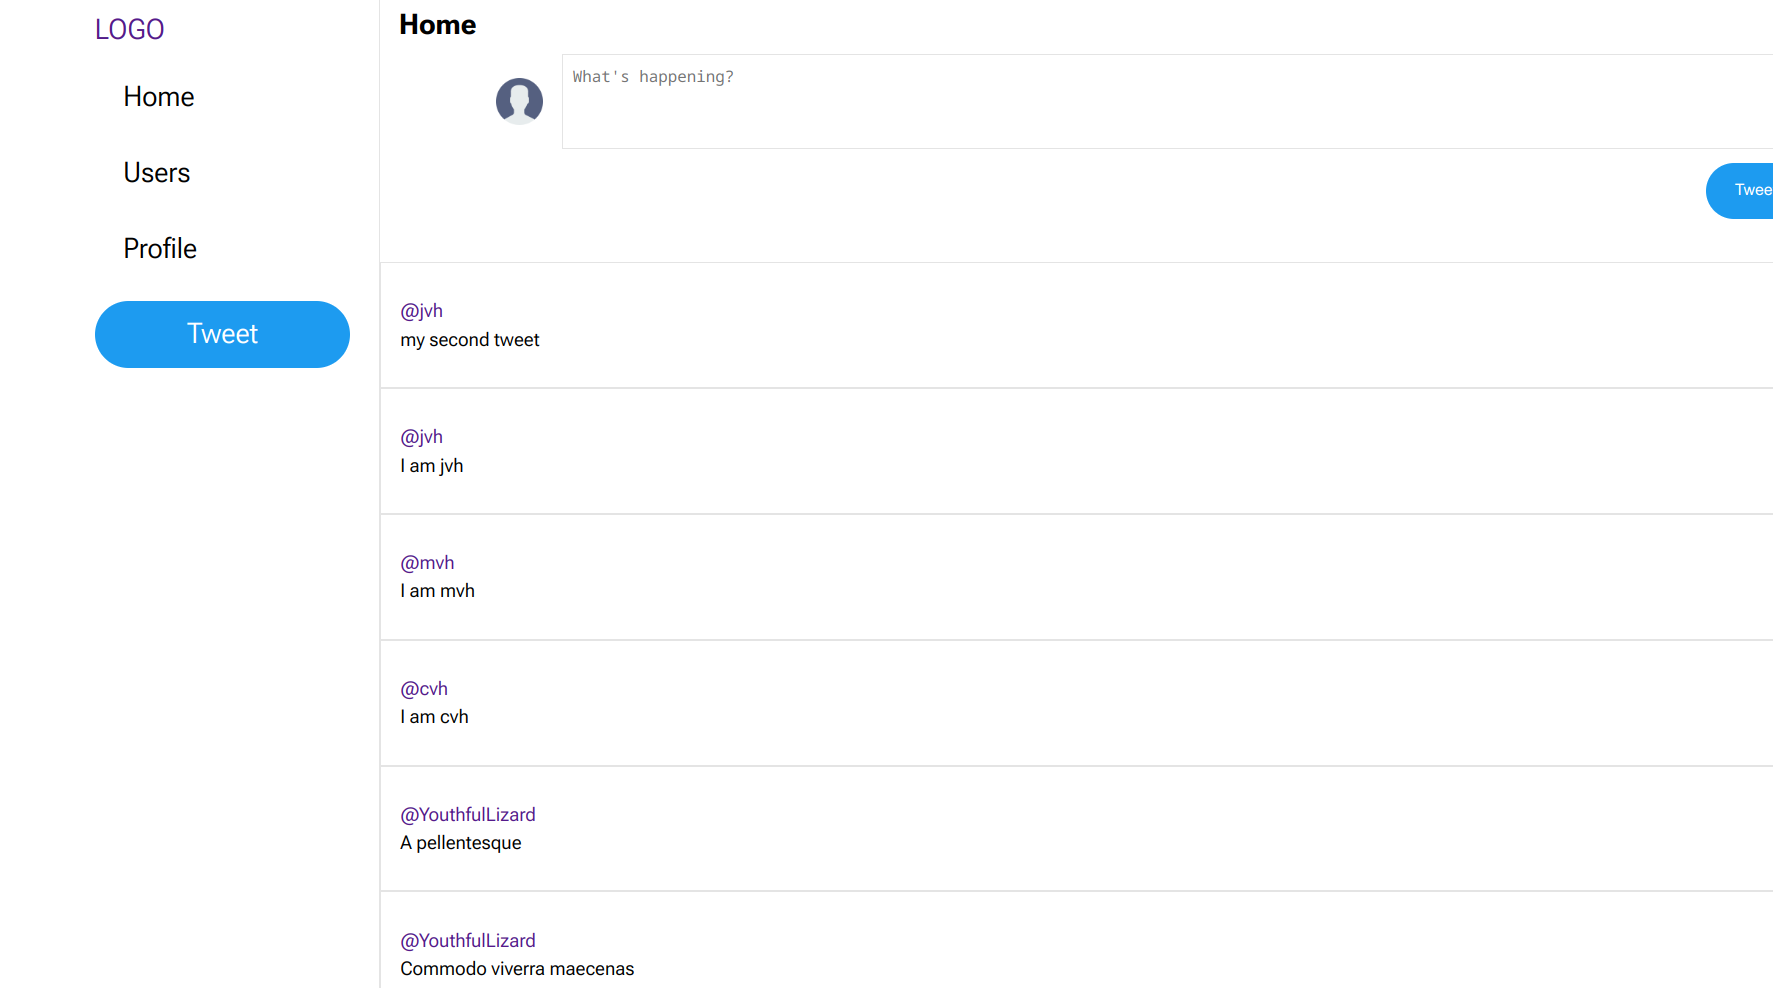
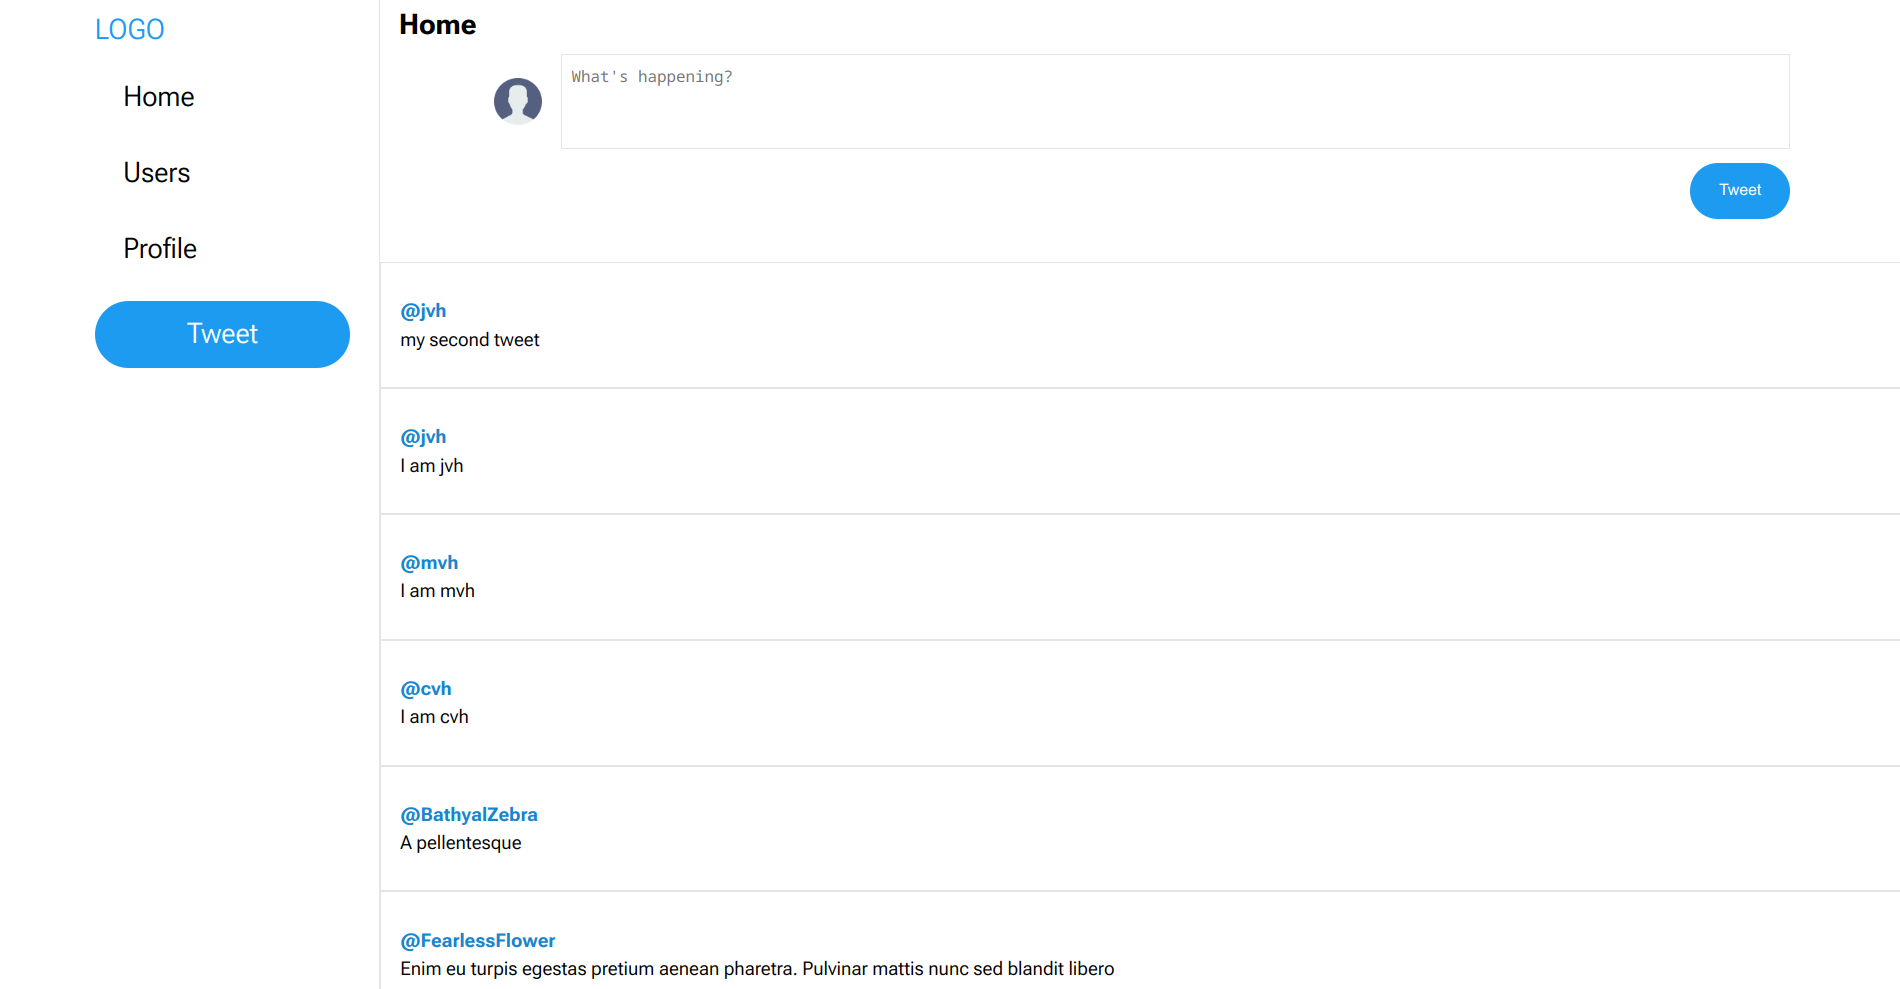
Added contact section and footer

diff --git a/public/styles/styles.css b/public/styles/styles.css
@@ -27,6 +27,12 @@
   transform: scale(1.1);
 }
 
+.hide {
+  position: absolute;
+  top: -9999px;
+  left: -9999px;
+}
+
 .nav-scroll-bg {
   background-color: rgb(34, 51, 59, 0.9);
   backdrop-filter: blur(10px);
@@ -38,14 +44,15 @@
   display: inline-block;
   padding: 0.5rem 1rem;
   border-radius: 0.75rem;
-  color: var(--primary-color);
+  color: var(--bg-color);
+  background-color: var(--primary-color);
   border: 1px solid var(--primary-color);
   transition: color 0.5s ease, background-color 0.5s ease;
 }
 
 .btn:hover {
-  color: var(--bg-color);
-  background-color: var(--primary-color);
+  color: var(--primary-color);
+  background-color: transparent;
 }
 
 .nav-scroll-show::after {
@@ -141,8 +148,7 @@
 .work-grid {
   width: 100%;
   display: grid;
-  grid-template-columns: repeat(3, 1fr);
-  grid-column: 1;
+  grid-template-columns: repeat(2, 1fr);
 }
 
 .work-tiles {
@@ -177,7 +183,7 @@
   flex-direction: column;
   justify-content: flex-end;
   background-color: rgb(34, 51, 59, 0.75);
-  backdrop-filter: blur(10px);
+  /* backdrop-filter: blur(10px); */
   transition: height 0.5s ease, padding 0.5s ease;
 }
 
@@ -197,6 +203,60 @@
 
 .project-info p::before, .project-info p::after {
   color: var(--primary-color);
+}
+
+.contact-form {
+  width: 50%;
+  padding: 0 1rem;
+  display: grid;
+  grid-template-columns: 1fr;
+  grid-column: 1;
+  grid-gap: 0.5rem;
+}
+
+.contact-form div {
+  display: grid;
+  grid-template-columns: repeat(2, 1fr);
+  grid-gap: 0.5rem;
+}
+
+.contact-form input, .contact-form textarea {
+  padding: 0.75rem 1rem;
+  outline: none;
+  border: none;
+  font-size: 1.25em;
+  background-color: transparent;
+  color: var(--muted-text-color);
+  border-bottom: 2px solid var(--muted-text-color);
+  transition: color 0.5s ease, border 0.5s ease;
+}
+
+.contact-form input:focus, .contact-form textarea:focus {
+  border-color: var(--primary-color);
+  color: var(--primary-color);
+}
+
+.contact-form input[name='subject'], .contact-form textarea {
+  width: 100%;
+}
+
+.contact-form textarea {
+  height: 12rem;
+  resize: vertical;
+}
+
+.contact-form button {
+  margin: 0.5rem 0;
+}
+
+.footer-logos {
+  height: 2rem;
+  fill: var(--text-color);
+  transition: fill 0.5s ease;
+}
+
+.footer-logos:hover {
+  fill: var(--primary-color);
 }
 /* END OF CLASSES */
 
@@ -282,4 +342,22 @@ header nav div {
 #welcome-section p {
   width: 50%;
   margin: 0.5rem auto 0 auto;
+}
+
+footer {
+  height: 10rem;
+  margin-top: 6rem;
+  display: flex;
+  flex-direction: column;
+  align-items: center;
+  justify-content: center;
+  background-color: var(--bg-shadow);
+}
+
+footer div {
+  margin-bottom: 1rem;
+}
+
+footer p {
+  font-size:1em;
 }

diff --git a/public/scripts/script.js b/public/scripts/script.js
@@ -1,5 +1,6 @@
 const headerNav = document.querySelector('header nav');
 const workTiles = document.querySelectorAll('.work-tiles');
+const headerLinks = document.querySelectorAll('header .links');
 
 let lastScrollTop = 0;
 document.addEventListener('scroll', () => {
@@ -37,5 +38,19 @@ workTiles.forEach((tile) => {
     }
 
     projectInfo.classList.remove('show-project-info');
+  });
+});
+
+headerLinks.forEach((link, i) => {
+  link.addEventListener('mouseover', () => {
+    headerLinks.forEach((link) => {
+      link.classList.add('muted-color');
+    });
+  });
+
+  link.addEventListener('mouseout', () => {
+    headerLinks.forEach((link) => {
+      link.classList.remove('muted-color');
+    });
   });
 });

diff --git a/public/styles/portfolio/twitter-clone/styles.css b/public/styles/portfolio/twitter-clone/styles.css
@@ -13,6 +13,15 @@ a {
     text-decoration: none;
 }
 
+.tweet-container a {
+  color: #1885cf;
+  font-weight: bold;
+}
+
+.tweet-container a:hover {
+  text-decoration: underline;
+}
+
 header {
     height: 100vh;
     width: 20rem;
@@ -39,6 +48,7 @@ header nav,
 
 .logo {
     margin: 1rem 0 0.75rem 0;
+    color: var(--blue-color);
 }
 
 .links {
